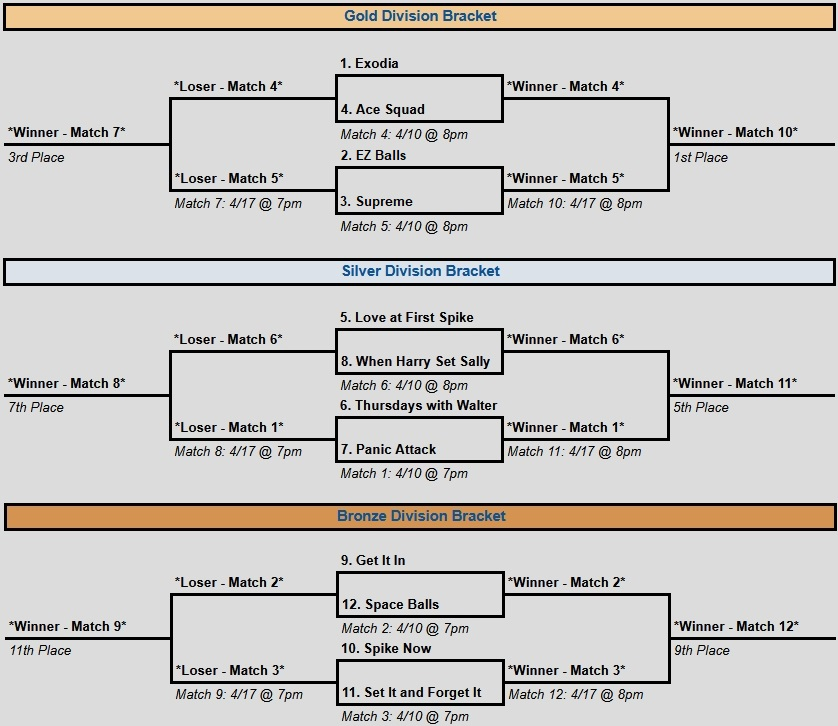
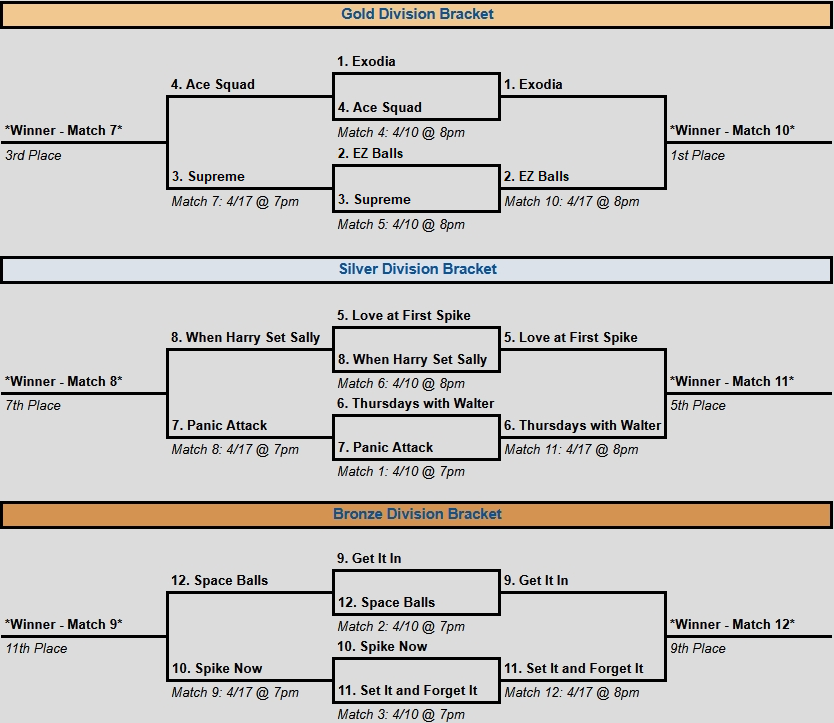
scores

diff --git a/coed/dvb_sum25.html b/coed/dvb_sum25.html
@@ -1602,33 +1602,33 @@
         </tr>
         <tr>
           <td class="box_score_top_team_white">Thursdays with Walter</td>
-          <td class="box_score_top_score_white"></td>
+          <td class="box_score_top_score_white">1</td>
         </tr>
         <tr>
           <td class="box_score_bot_team_white">Panic Attack</td>
-          <td class="box_score_bot_score_white"></td>
+          <td class="box_score_bot_score_white">0</td>
         </tr>
         <tr>
           <th class="box_score_court_white" colspan="2">Court 2 - Match 2</th>
         </tr>
         <tr>
           <td class="box_score_top_team_white">Get It In</td>
-          <td class="box_score_top_score_white"></td>
+          <td class="box_score_top_score_white">1</td>
         </tr>
         <tr>
           <td class="box_score_bot_team_white">Space Balls</td>
-          <td class="box_score_bot_score_white"></td>
+          <td class="box_score_bot_score_white">0</td>
         </tr>
         <tr>
           <th class="box_score_court_white" colspan="2">Court 3 - Match 3</th>
         </tr>
         <tr>
           <td class="box_score_top_team_white">Spike Now</td>
-          <td class="box_score_top_score_white"></td>
+          <td class="box_score_top_score_white">0</td>
         </tr>
         <tr>
           <td class="box_score_bot_team_white">Set It and Forget It</td>
-          <td class="box_score_bot_score_white"></td>
+          <td class="box_score_bot_score_white">1</td>
         </tr>
         <tr>
           <th class="box_score_8pm" rowspan="9">8 PM</th>
@@ -1636,33 +1636,33 @@
         </tr>
         <tr>
           <td class="box_score_top_team_gray">Exodia</td>
-          <td class="box_score_top_score_gray"></td>
+          <td class="box_score_top_score_gray">1</td>
         </tr>
         <tr>
           <td class="box_score_bot_team_gray">Ace Squad</td>
-          <td class="box_score_bot_score_gray"></td>
+          <td class="box_score_bot_score_gray">0</td>
         </tr>
         <tr>
           <th class="box_score_court_gray" colspan="2">Court 2 - Match 5</th>
         </tr>
         <tr>
           <td class="box_score_top_team_gray">EZ Balls</td>
-          <td class="box_score_top_score_gray"></td>
+          <td class="box_score_top_score_gray">1</td>
         </tr>
         <tr>
           <td class="box_score_bot_team_gray">Supreme</td>
-          <td class="box_score_bot_score_gray"></td>
+          <td class="box_score_bot_score_gray">0</td>
         </tr>
         <tr>
           <th class="box_score_court_gray" colspan="2">Court 3 - Match 6</th>
         </tr>
         <tr>
           <td class="box_score_top_team_gray">Love at First Spike</td>
-          <td class="box_score_top_score_gray"></td>
+          <td class="box_score_top_score_gray">1</td>
         </tr>
         <tr>
           <td class="box_score_bot_team_gray">When Harry Set Sally</td>
-          <td class="box_score_bot_score_gray"></td>
+          <td class="box_score_bot_score_gray">0</td>
         </tr>
       </table>
     </div>
@@ -1677,33 +1677,33 @@
           <th class="box_score_court_white" colspan="2">Court 1 - 3rd Place</th>
         </tr>
         <tr>
-          <td class="box_score_top_team_white">Loser - Match 4</td>
+          <td class="box_score_top_team_white">Ace Squad</td>
           <td class="box_score_top_score_white"></td>
         </tr>
         <tr>
-          <td class="box_score_bot_team_white">Loser - Match 5</td>
+          <td class="box_score_bot_team_white">Supreme</td>
           <td class="box_score_bot_score_white"></td>
         </tr>
         <tr>
           <th class="box_score_court_white" colspan="2">Court 2 - 7th Place</th>
         </tr>
         <tr>
-          <td class="box_score_top_team_white">Loser - Match 6</td>
+          <td class="box_score_top_team_white">When Harry Set Sally</td>
           <td class="box_score_top_score_white"></td>
         </tr>
         <tr>
-          <td class="box_score_bot_team_white">Loser - Match 1</td>
+          <td class="box_score_bot_team_white">Panic Attack</td>
           <td class="box_score_bot_score_white"></td>
         </tr>
         <tr>
           <th class="box_score_court_white" colspan="2">Court 3 - 11th Place</th>
         </tr>
         <tr>
-          <td class="box_score_top_team_white">Loser - Match 2</td>
+          <td class="box_score_top_team_white">Space Balls</td>
           <td class="box_score_top_score_white"></td>
         </tr>
         <tr>
-          <td class="box_score_bot_team_white">Loser - Match 3</td>
+          <td class="box_score_bot_team_white">Spike Now</td>
           <td class="box_score_bot_score_white"></td>
         </tr>
         <tr>
@@ -1711,33 +1711,33 @@
           <th class="box_score_court_gold" colspan="2">Court 1 - 1st Place</th>
         </tr>
         <tr>
-          <td class="box_score_top_team_gray">Winner - Match 4</td>
+          <td class="box_score_top_team_gray">Exodia</td>
           <td class="box_score_top_score_gray"></td>
         </tr>
         <tr>
-          <td class="box_score_bot_team_gray">Winner - Match 5</td>
+          <td class="box_score_bot_team_gray">EZ Balls</td>
           <td class="box_score_bot_score_gray"></td>
         </tr>
         <tr>
           <th class="box_score_court_silver" colspan="2">Court 2 - 5th Place</th>
         </tr>
         <tr>
-          <td class="box_score_top_team_gray">Winner - Match 6</td>
+          <td class="box_score_top_team_gray">Love at First Spike</td>
           <td class="box_score_top_score_gray"></td>
         </tr>
         <tr>
-          <td class="box_score_bot_team_gray">Winner - Match 1</td>
+          <td class="box_score_bot_team_gray">Thursdays with Walter</td>
           <td class="box_score_bot_score_gray"></td>
         </tr>
         <tr>
           <th class="box_score_court_bronze" colspan="2">Court 3 - 9th Place</th>
         </tr>
         <tr>
-          <td class="box_score_top_team_gray">Winner - Match 2</td>
+          <td class="box_score_top_team_gray">Get It In</td>
           <td class="box_score_top_score_gray"></td>
         </tr>
         <tr>
-          <td class="box_score_bot_team_gray">Winner - Match 3</td>
+          <td class="box_score_bot_team_gray">Set It and Forget It</td>
           <td class="box_score_bot_score_gray"></td>
         </tr>
       </table>
@@ -1745,7 +1745,7 @@
 
     <div id="BR" style="display:none;margin-left:10px;margin-top:10px;margin-right:10px;margin-bottom:10px;">
       <div>
-        <img title="Bracket" style="height:min(726px,100%);width:min(838px,100%);" src="../images/dvb/dvb_sum25_bracket.png">
+        <img title="Bracket" style="height:min(723px,100%);width:min(834px,100%);" src="../images/dvb/dvb_sum25_bracket.png">
       </div>
     </div>
 
